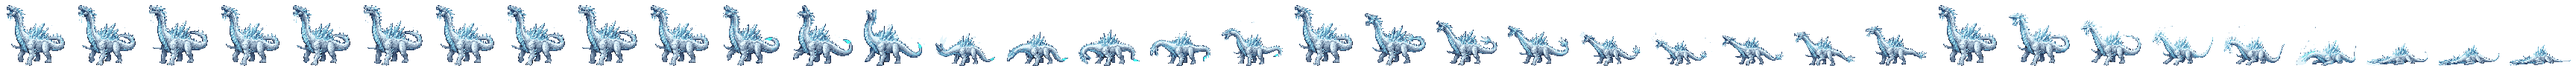
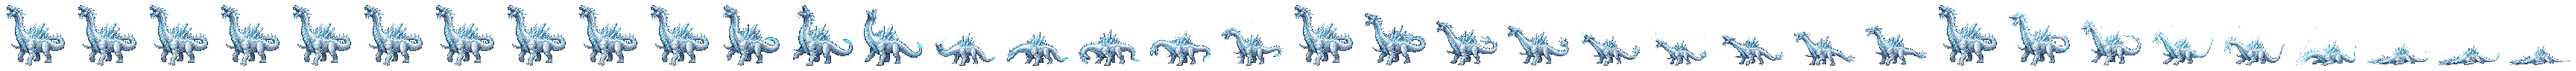
fix(combat): オルド待機を完全静止しインポートを更新
前回の安定化が Godot キャッシュに残らず旧ズームが再生されていたため、idle を frame0 固定にし再インポートした。

Changed region(s): [[0.0312, 0.0938, 0.25, 0.9062]]

diff --git a/tools/stabilize_enemy_sheet_scale.py b/tools/stabilize_enemy_sheet_scale.py
@@ -40,6 +40,7 @@ def stabilize_sheet(
 	idle_count: int,
 	max_dh: int,
 	dry_run: bool,
+	freeze: bool = False,
 ) -> int:
 	im = Image.open(path).convert("RGBA")
 	w, h = im.size
@@ -58,18 +59,23 @@ def stabilize_sheet(
 		return 1
 
 	heights = [used_h(cells[i]) for i in range(idle_count)]
-	stable = [i for i in range(idle_count) if abs(heights[i] - ref_h) <= max_dh]
-	if not stable:
+	if freeze:
 		stable = [0]
+	else:
+		stable = [i for i in range(idle_count) if abs(heights[i] - ref_h) <= max_dh]
+		if not stable:
+			stable = [0]
 
 	print(
-		f"{path.name}: ref_h={ref_h} max_dh={max_dh} "
+		f"{path.name}: ref_h={ref_h} max_dh={max_dh} freeze={freeze} "
 		f"idle_h={heights} stable={stable}"
 	)
 	changed = 0
 	for i in range(idle_count):
 		src = stable[i % len(stable)]
-		if i == src:
+		if i == src and not freeze:
+			continue
+		if freeze and i == 0:
 			continue
 		print(f"  idle[{i}] <- idle[{src}] (was h={heights[i]})")
 		cells[i] = cells[src].copy()
@@ -138,6 +144,11 @@ def main() -> int:
 		default=DEFAULT_MAX_DH,
 		help="Keep idle frames whose body height is within this many px of idle[0]",
 	)
+	ap.add_argument(
+		"--freeze",
+		action="store_true",
+		help="Replace all idle cells with an exact copy of idle[0] (no residual breath)",
+	)
 	ap.add_argument("--dry-run", action="store_true")
 	args = ap.parse_args()
 	paths = resolve_paths(args.sheet, args.all_tiers)
@@ -150,8 +161,9 @@ def main() -> int:
 			path,
 			cell=args.cell,
 			idle_count=args.idle_count,
-			max_dh=args.max_dh,
+			max_dh=0 if args.freeze else args.max_dh,
 			dry_run=args.dry_run,
+			freeze=args.freeze,
 		)
 	return rc
 

diff --git a/docs/project/CurrentState.md b/docs/project/CurrentState.md
@@ -4,6 +4,7 @@
 
 ## Last Update
 
+2026-08-09（**オルド待機ズーム再修正／統合＋main**: idle完全静止＋Godot再インポート。要実機／要iOS）
 2026-08-09（**雑魚特性GO／統合＋main**: 10種パッシブを本編雑魚＋放浪へ。要実機／要iOS）
 2026-08-09（**名付き雑魚3体ステ帯上げ／統合＋main**: ストーム高ATK・ドレッド耐久・沼王ATK是正。要実機／要iOS）
 2026-08-09（**オルド／スノーストーム待機ズーム揺れ修正／統合＋main**: idle安定フレーム循環。要実機／要iOS）
